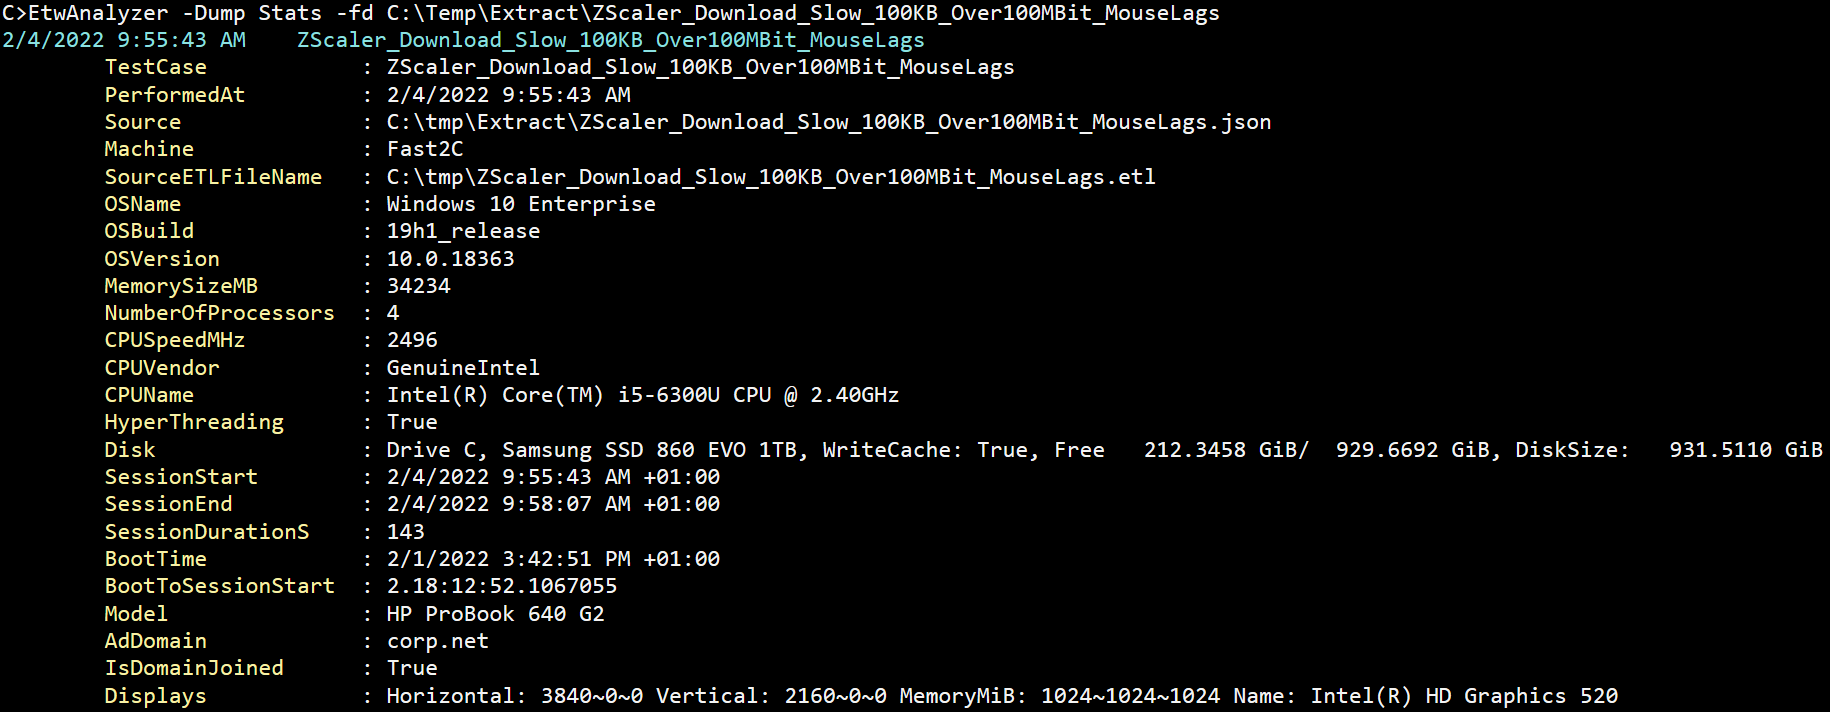
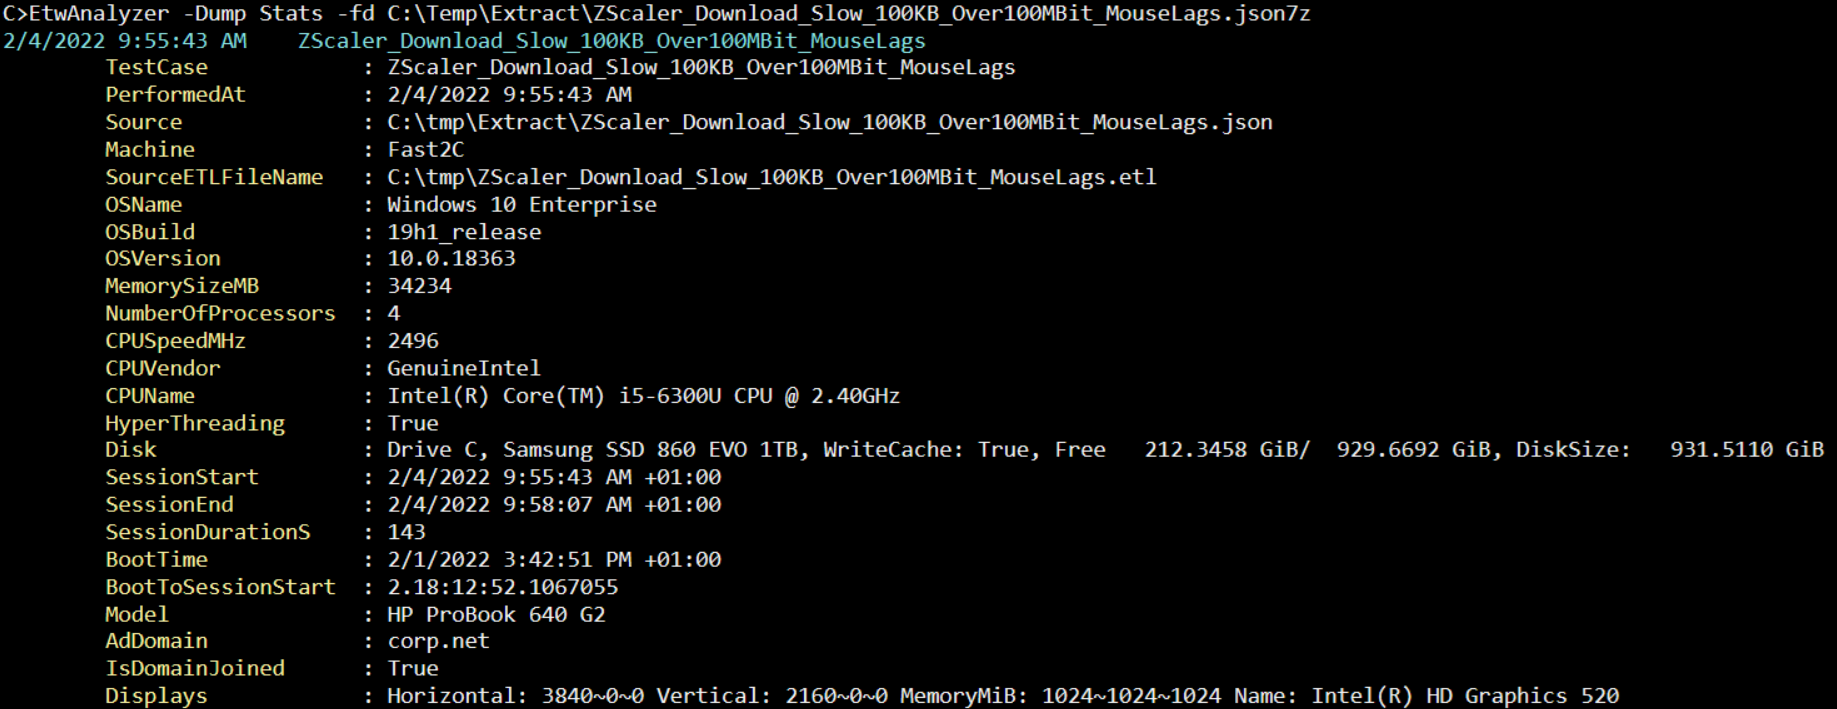
Improve and update documentation with compressed json feature. Sorted extractors alphabetically. Made extract command documentation more prominent in ReadMe. Added more details how symbol server can be used during extraction.

Changed region(s): [[0.0, 0.0, 0.9967, 1.0]]

diff --git a/ETWAnalyzer/Commands/ExtractCommand.cs b/ETWAnalyzer/Commands/ExtractCommand.cs
@@ -35,37 +35,37 @@ namespace ETWAnalyzer.Commands
     class ExtractCommand : ArgParser
     {
         internal static readonly string HelpString =
-         "ETWAnalyzer [-extract [All, Default or Disk File CPU Memory Exception Stacktag ThreadPool PMC Frequency Power Dns TCP] -filedir/-fd inEtlOrZip [-DryRun] [-symServer NtSymbolPath/MS/Google/syngo] [-keepTemp] [-NoOverwrite] [-pThreads dd] [-nThreads dd]" + Environment.NewLine +
+         "ETWAnalyzer [-extract [All, Default or CPU Disk Dns Exception File Frequency Memory Module ObjectRef PMC Power Stacktag TCP ThreadPool] -filedir/-fd inEtlOrZip [-DryRun] [-symServer NtSymbolPath/MS/Google/syngo] [-keepTemp] [-NoOverwrite] [-pThreads dd] [-nThreads dd]" + Environment.NewLine +
          "            [-NoReady] [-allCPU] [-Concurrency dd] [-NoIndent] [-NoCompress] [-LastNDays dd] [-TestsPerRun dd -SkipNTests dd] [-TestRunIndex dd -TestRunCount dd] [-NoTestRunGrouping]  " + Environment.NewLine + 
          "Retrieve data from ETL files and store extracted data in a serialized format in Json in the output directory \\Extract folder." + Environment.NewLine +
          "The data can the be analyzed by other tools or ETWAnalyzer itself which can also analyze the data for specific patterns or issues." + Environment.NewLine +
-         "Extract Options are separated by space" + Environment.NewLine +
+         "Multiple extractor options are separated by space." + Environment.NewLine +
          " -extract Op1 Op2 ..." + Environment.NewLine +
          "  All      : Include all extractors" + Environment.NewLine +
-         "  Default  : Include all extractors except File" + Environment.NewLine +
          "  CPU      : CPU consumption of all proceses part of the recording. CPU Sampling (PROFILE) and/or Context Switch tracing (CSWITCH) data with stacks must be present." + Environment.NewLine +
-         "  Memory   : Get workingset/committed memory machine wide and of all processes at trace start and a second time at trace end. MEMINFO_WS must be present." + Environment.NewLine +
+         "  Default  : Include all extractors except File" + Environment.NewLine +
+         "  Disk     : Disk IO summary and a per file summary of read/write/flush disk service times. DISK_IO data must be present in trace to get this data." + Environment.NewLine +
+         "  DNS       : Extract DNS Queries. You need to enable ETW provider Microsoft-Windows-DNS-Client." + Environment.NewLine +
          "  Exception: Get all .NET Exception Messages, Type and their call stacks when present with Process,ThreadId and TimeStamp" + Environment.NewLine +
          "             To get call stacks you need symbols. See below -symServer section. The Microsoft-Windows-DotNETRuntime ETW provider with ExceptionKeyword 0x8000 and stacks must be present." + Environment.NewLine +
-         "  Disk     : Disk IO summary and a per file summary of read/write/flush disk service times. DISK_IO data must be present in trace to get this data." + Environment.NewLine +
-         "  Module   : Dump all loaded modules with file path and version. LOADER data must be present in trace." + Environment.NewLine +
          "  File     : Open/Close/Read/Write summary of all accessed files per process" + Environment.NewLine +
          "             The ETL file must contain FILEIO data." + Environment.NewLine +
+         "  Frequency : Extract CPU Frequency data when present from enabled Microsoft-Windows-Kernel-Processor-Power and Microsoft-Windows-Kernel-Power (capture state data from both providers is also needed) ETW providers." + Environment.NewLine +
+         "  Memory   : Get workingset/committed memory machine wide and of all processes at trace start and a second time at trace end. MEMINFO_WS must be present." + Environment.NewLine +
+         "  Module   : Dump all loaded modules with file path and version. LOADER data must be present in trace." + Environment.NewLine +
+         "  ObjectRef : Extract all Handle (Create/Duplicate/Close) with kernel provider OB_HANDLE, Object (AddRef/ReleaseRef) with kernel provider OB_OBJECT and File map/unmap events with provider VAMAP." + Environment.NewLine +
+         "  PMC       : Extract Performance Monitoring Counters and Last Branch Record CPU traces. You need to enable PMC/LBR ETW Tracing during the recording to get data." + Environment.NewLine +
+         "  Power     : Extract Power profile data when present from Microsoft-Windows-Kernel-Power provider (capture state is needed to get power profile data)." + Environment.NewLine +
          "  Stacktag : Get from all processes the CPU call stack summary by the WPA stacktag names" + Environment.NewLine +
          "             To work properly you need symbols. See below -symServer section" + Environment.NewLine +
          "              Json Nodes: SummaryStackTags-UsedStackTagFiles,Stats..." + Environment.NewLine +
          "                           This uses default.stacktags and GCAndJit.stacktags. For each process the GC and JIT overhead is printed extra while the default stacktags contain implicitly GC and JIT also." + Environment.NewLine +
          "              Json Nodes: SpecialStackTags-UsedStackTagFiles,Stats..." + Environment.NewLine +
          "                           There you can configure with the ETWAnalyzer\\Configuration\\Special.stacktags to trend e.g. specific methods over one or more testruns to find regression issues or when an issue did start occurring." + Environment.NewLine +
+         "  TCP       : Extract TCP statistic per connection. You need to enable the provider Microsoft-Windows-TCPIP." + Environment.NewLine +
          "  ThreadPool: Extract relevant data from .NET Runtime ThreadPool if available. ThreadingKeyword 0x10000 needs to be set for the Microsoft-Windows-DotNETRuntime ETW Provider during recording." + Environment.NewLine +
          "              Json Nodes: ThreadPool-PerProcessThreadPoolStarvations" + Environment.NewLine +
-         "  PMC       : Extract Performance Monitoring Counters and Last Branch Record CPU traces. You need to enable PMC/LBR ETW Tracing during the recording to get data." + Environment.NewLine +
-         "  Frequency : Extract CPU Frequency data when present from enabled Microsoft-Windows-Kernel-Processor-Power and Microsoft-Windows-Kernel-Power (capture state data from both providers is also needed) ETW providers." + Environment.NewLine +
-         "  Power     : Extract Power profile data when present from Microsoft-Windows-Kernel-Power provider (capture state is needed to get power profile data)." + Environment.NewLine +
-         "  DNS       : Extract DNS Queries. You need to enable ETW provider Microsoft-Windows-DNS-Client." + Environment.NewLine +
-         "  TCP       : Extract TCP statistic per connection. You need to enable the provider Microsoft-Windows-TCPIP." + Environment.NewLine +
-         "  ObjectRef : Extract all Handle (Create/Duplicate/Close) with kernel provider OB_HANDLE, Object (AddRef/ReleaseRef) with kernel provider OB_OBJECT and File map/unmap events with provider VAMAP." + Environment.NewLine +
-         "The following filters work only if the adhere to a specific file naming convention." + Environment.NewLine + 
+         "The following filters work only if the input files adhere to a specific file naming convention." + Environment.NewLine + 
          "Select files from a testrun (all tests which have a time gap < 1h) to e.g. select only the first, or skip the warmump run or to extract just a sample of test cases." + Environment.NewLine +
          "         TestCaseName_ddddmsMachineName.yyyymmdd-hhmmss.7z/.zip/.etl  e.g. Build_166375msfv-az192-659.20230127-093520"  + Environment.NewLine + 
          "         TestCaseName_ddddms_Machine_CLT/SRV/SINGLE_TestStatus-Passed/Failed_yyyymmdd-hhmmss.7z/.etl e.g. LoadPrepUseCase_4897ms_RN6498AA8B-B18F_SRV_TestStatus-Passed_20230112-170100.7z" + Environment.NewLine + 
@@ -75,7 +75,7 @@ namespace ETWAnalyzer.Commands
          "   -TestsPerRun dd            Number of test cases to load of each test run. Useful if you want get an overview how a test behaves over time without loading thousands of files." + Environment.NewLine +
          "   -SkipNTests dd             Skip the first n tests of a testcase in a TestRun. Use this to e.g. skip the first test run which shows normally first time init effects which may be not representative" + Environment.NewLine +
          " -DryRun              Do not extract. Only print which files would be extracted." + Environment.NewLine + 
-         " -NoOverwrite         By default existing Json files are overwritten during a new extraction run. If you want to extract from a large directory only the missing extraction files you can use this option" + Environment.NewLine +
+         " -NoOverwrite         By default existing Json files are overwritten during a new extraction run. If you want to extract from a large directory only the missing extraction files you can use this option." + Environment.NewLine +
          "                      This way you can have the same extract command line in a script after a profiling run to extract only the newly added profiling data." + Environment.NewLine +
          " -Indent              By default a not readable non indented json file is written to save space. For readability you can save the json files with extra spaces and line feeds. This increases the file size ca. by 30%." + Environment.NewLine +
         $" -NoCompress          By default the extracted json files are stored in a 7z archive with the extension {TestRun.CompressedExtractExtension}. Use this flag if you need uncompressed json files." + Environment.NewLine +
@@ -122,7 +122,6 @@ namespace ETWAnalyzer.Commands
          " ETWAnalyzer -extract All -filedir C:\\Profiling\\Baseline_12122022 -symServer MS -outdir c:\\temp\\Profiling\\Baseline_Extracted -noOverwrite" + Environment.NewLine +
          "[green]Show which files would be extracted. Select only files which are not older than one day.[/green]" + Environment.NewLine +
          " ETWAnalyzer -extract All -fd C:\\Profiling\\Baseline_12122022 -DryRun -LastNDays 1" + Environment.NewLine +
-
          "" + Environment.NewLine
          ;
 

diff --git a/ReadMe.md b/ReadMe.md
@@ -7,7 +7,7 @@ ETWAnalyzer main license is [MIT][ETWAnalyzerLicense].
 ETWAnalyzer uses Open Source and 3rd Party Software listed in [ReadMe.oss][ETWAnalyzerOSS].
 
 ## What is it? 
-ETWAnalyzer extracts from ETL files summary information into Json files. The ETL files are produced by the builtin profiling infrastructure of Windows [Event Tracing for Windows (ETW)](https://docs.microsoft.com/en-us/windows/win32/etw/about-event-tracing). 
+ETWAnalyzer extracts from ETL files summary information into compressed (.json7z) files. The ETL files are produced by the builtin profiling infrastructure of Windows [Event Tracing for Windows (ETW)](https://docs.microsoft.com/en-us/windows/win32/etw/about-event-tracing). 
 Profiling data can be collected with e.g. [wpr](https://docs.microsoft.com/en-us/windows-hardware/test/wpt/windows-performance-recorder), wprUI, xperf, PerfView, ... . Wpr is part of Windows 10 which enables you to record data on any Windows machine without additional software installation in the field. 
 These recorded ETL files are usually large (multi GB) and load slow into analysis tools such as 
 [Windows Performance Analyzer (WPA)](https://docs.microsoft.com/en-us/windows-hardware/test/wpt/windows-performance-analyzer#:~:text=Included%20in%20the%20Windows%20Assessment,run%20in%20the%20Assessment%20Platform.) 
@@ -19,9 +19,9 @@ or written to a CSV file for further analysis.
 
 The Json files can also be accessed via a C# interface [**IETWExtract**](ETWAnalyzer/Documentation/ProgramaticAccess.md) which enables you to write custom analyzers.
 
-Json files are much faster to query than the input ETL files without slow symbol server lookups.
+Compressed Json files are much faster to query than the input ETL files without slow symbol server lookups.
 It is based on years of field experience with ETW file analysis to keep the extracted Json file size as small as possible while maximizing the insights you can get of the extracted files.
-An ETW Json file is typically a few MB while the input .etl file including PDBs is hundreds of MB. 
+An ETW .json7z file is typically a few hundred KB while the input .etl file including PDBs is hundreds of MB. 
 
 ## Contributing
 You want to contribute, miss specific data, or want to add your specific dump command? Check out [Contributing](ETWAnalyzer/Documentation/Contributing.md) to get started.
@@ -59,20 +59,22 @@ ETWController supports
   - Taking Screenshots which are put besides profiling data which can be viewed in Browser.
  - Capturing Keyboard/Mouse events.
  - Distributed Profiling (Client/Server scenarios).
-   
+
+## Data Extraction  
 The 7z archives created by ETWController can be directly consumed with ETWAnalyzer. To e.g. unpack all compressed 7z files in a folder generated
 by ETWController and keep the files uncompressed so you can analyze further with WPA:
 ```
 ETWAnalyzer -extract all -fd c:\Cases\Failure\*.7z -keepTemp -symserver MS 
 ```
+
+### Extract Command
+
+  - [Extract Command Documentation](ETWAnalyzer/Documentation/ExtractCommand.md)
+
 ## Use Cases
  - [Profiler Driven Development](https://aloiskraus.wordpress.com/2022/07/25/pdd-profiler-driven-development/)
  - [Run tests with ETW Profiling](https://github.com/Alois-xx/SerializerTests)
  - [Build Profiling At Scale At Github](ETWAnalyzer/Documentation/BuildProfiling.md)
-
-## Data Extraction
-Data extraction is done for one or a directory of ETL files. Zipped ETL files are also extracted. By default 75% of all cores are used.
-See [Extract](ETWAnalyzer/Documentation/ExtractCommand.md) for more information.
 
 ### Example
 
@@ -88,7 +90,7 @@ curl https://raw.githubusercontent.com/Siemens-Healthineers/ETWAnalyzer/main/ETW
 ETWAnalyzer -console
 .load c:\Temp\ETWAnalyzerTest.json
 .dump CPU -topN 1 -methods *
-    ...
+     ...
 .dump CPU -topN 1 -methods * -sortby stackdepth -MinMaxCPUMs 1000
          CPU ms Method
 5/29/2024 4:27:46 PM   ETWAnalyzerTest
@@ -96,39 +98,19 @@ ETWAnalyzer -console
       36,540 ms _RtlUserThreadStart 
       36,540 ms __RtlUserThreadStart 
       36,540 ms _CorExeMain_Exported 
-      36,540 ms ShellShim__CorExeMain 
-      36,540 ms _CorExeMain 
-      36,540 ms _CorExeMain 
-      36,540 ms EEPolicy::HandleExitProcess 
-      36,540 ms HandleExitProcessHelper 
-      36,540 ms SafeExitProcess 
-      36,540 ms EEPolicy::ExitProcessViaShim 
-      36,540 ms CLRRuntimeHostInternalImpl::ShutdownAllRuntimesThenExit 
-      36,540 ms RuntimeDesc::ShutdownAllActiveRuntimes 
-      36,540 ms ExitProcessImplementation 
+      ...
       36,540 ms RtlExitUserProcess 
       36,540 ms LdrShutdownProcess 
       36,540 ms LdrpCallInitRoutine 
       36,540 ms LdrxCallInitRoutine 
-      36,540 ms _CorDllMain_Exported 
-      36,540 ms ShellShim__CorDllMain 
-      36,540 ms _CorDllMain 
-      36,540 ms _DllMainCRTStartup 
+      ...
       36,540 ms dllmain_dispatch 
       36,540 ms dllmain_crt_dispatch 
       36,540 ms ___scrt_acquire_startup_lock  
 .dump CPU -topN 1 -methods * -sortby stackdepth -MinMaxCPUMs 1000 -includedll -threadcount
 5/29/2024 4:27:46 PM   ETWAnalyzerTest
    VSIXAutoUpdate.exe(12996) 
-      36,540 ms #1        ntdll.dll!_RtlUserThreadStart 
-      36,540 ms #1        ntdll.dll!__RtlUserThreadStart 
-      36,540 ms #1        mscoree.dll!_CorExeMain_Exported 
-      36,540 ms #1        mscoree.dll!ShellShim__CorExeMain 
-      36,540 ms #1        mscoreei.dll!_CorExeMain 
-      36,540 ms #1        clr.dll!_CorExeMain 
-      36,540 ms #1        clr.dll!EEPolicy::HandleExitProcess 
-      36,540 ms #1        clr.dll!HandleExitProcessHelper 
-      36,540 ms #1        clr.dll!SafeExitProcess 
+      ...
       36,540 ms #1        clr.dll!EEPolicy::ExitProcessViaShim 
       36,540 ms #1        mscoreei.dll!CLRRuntimeHostInternalImpl::ShutdownAllRuntimesThenExit 
       36,540 ms #1        mscoreei.dll!RuntimeDesc::ShutdownAllActiveRuntimes 
@@ -137,10 +119,7 @@ ETWAnalyzer -console
       36,540 ms #1        ntdll.dll!LdrShutdownProcess 
       36,540 ms #1        ntdll.dll!LdrpCallInitRoutine 
       36,540 ms #1        ntdll.dll!LdrxCallInitRoutine 
-      36,540 ms #1        mscoree.dll!_CorDllMain_Exported 
-      36,540 ms #1        mscoree.dll!ShellShim__CorDllMain 
-      36,540 ms #1        mscoreei.dll!_CorDllMain 
-      36,540 ms #1        CustomMarshalers.dll!_DllMainCRTStartup 
+      ...
       36,540 ms #1        CustomMarshalers.dll!dllmain_dispatch 
       36,540 ms #1        CustomMarshalers.dll!dllmain_crt_dispatch 
       36,540 ms #1        CustomMarshalers.dll!___scrt_acquire_startup_lock 
@@ -148,7 +127,7 @@ ETWAnalyzer -console
          CPU ms Last-First First(s) Last(s)  Method
 5/29/2024 4:27:46 PM   ETWAnalyzerTest
    VSIXAutoUpdate.exe(12996) 
-...
+      ...
       36,540 ms   37.417 s    0.599   38.016 _CorDllMain 
       36,540 ms   37.417 s    0.599   38.016 _DllMainCRTStartup 
       36,540 ms   37.417 s    0.599   38.016 dllmain_dispatch 
@@ -162,14 +141,14 @@ ETWAnalyzer -console
 This shows a Microsoft Bug at work after pretty much every Visual Studio update where shutting down the .NET Runtime gets stuck.
 
 ## Querying the Data
-After extraction from a > 600 MB input file a small ca. 6 MB file in the output folder. 
+After extraction from a > 600 MB input file a small ca. 600 KB .json7z file is created which contains multiple json files which consume ca 4 MB. 
 
 ![alt text](ETWAnalyzer/Documentation/Images/ExtractedDataFiles.png "Extracted Data Files")
 
 ETWAnalyzer will query all files in the current directory if you do not use -filedir/-fd xxx.  
 The first query would be to check on which machine with how much memory, CPU and Windows version it was running. 
 ```
-set f=-fd c:\Temp\C:\Temp\Extract\ZScaler_Download_Slow_100KB_Over100MBit_MouseLags
+set f=-fd C:\Temp\Extract\ZScaler_Download_Slow_100KB_Over100MBit_MouseLags.json7z
 EtwAnalyzer %f% -dump Stats 
 ```
 ![alt text](ETWAnalyzer/Documentation/Images/DumpStatsCommand.png "Dump Stats")

diff --git a/ETWAnalyzer/Documentation/ExtractCommand.md b/ETWAnalyzer/Documentation/ExtractCommand.md
@@ -11,33 +11,67 @@ Besides ```All``` the following extractors are available:
 
 | Extractor   |  Description |
 | -------     | --------     |
-|  All        |  Include all extractors|
-|  Default    |  Include all extractors except File|
-|  CPU        |  CPU consumption of all proceses part of the recording. CPU Sampling (PROFILE) and/or Context Switch tracing (CSWITCH) data with stacks must be present.|
-|  Memory     |  Get workingset/committed memory machine wide and of all processes at trace start and a second time at trace end. MEMINFO_WS must be present.|
-|  Exception  |  Get all .NET Exception Messages, Type and their call stacks when present with Process,ThreadId and TimeStamp|
+|  All        | Include all extractors|
+|  CPU        | CPU consumption of all proceses part of the recording. CPU Sampling (PROFILE) and/or Context Switch tracing (CSWITCH) data with stacks must be present.|
+|  Default    | Include all extractors except File|
+|  Disk       | Disk IO summary and a per file summary of read/write/flush disk service times. DISK_IO data must be present in trace to get this data.|
+|  DNS        | Extract DNS Queries. You need to enable ETW provider Microsoft-Windows-DNS-Client.|
+|  Exception  | Get all .NET Exception Messages, Type and their call stacks when present with Process,ThreadId and TimeStamp|
 |             | To get call stacks you need symbols. See below -symServer section. The Microsoft-Windows-DotNETRuntime ETW provider with ExceptionKeyword 0x8000 and stacks must be present.|
-|  Disk       |  Disk IO summary and a per file summary of read/write/flush disk service times. DISK_IO data must be present in trace to get this data.|
-|  Module     |  Dump all loaded modules with file path and version. LOADER data must be present in trace.|
-|  File       |  Open/Close/Read/Write summary of all accessed files per process|
-|             |  The ETL file must contain FILEIO data.|
+|  File       | Open/Close/Read/Write summary of all accessed files per process|
+|             | The ETL file must contain FILEIO data.|
+|  Frequency  | Extract CPU Frequency data when present from enabled Microsoft-Windows-Kernel-Processor-Power and Microsoft-Windows-Kernel-Power (capture state data from both providers is also needed) ETW providers.|
+|  Memory     | Get workingset/committed memory machine wide and of all processes at trace start and a second time at trace end. MEMINFO_WS must be present.|
+|  Module     | Dump all loaded modules with file path and version. LOADER data must be present in trace.|
+|  ObjectRef  | Extract all Handle (Create/Duplicate/Close) with kernel provider OB_HANDLE, Object (AddRef/ReleaseRef) with kernel provider OB_OBJECT and File map/unmap events with provider VAMAP.
+|  PMC        | Extract Performance Monitoring Counters and Last Branch Record CPU traces. You need to enable PMC/LBR ETW Tracing during the recording to get data.|
+|  Power      | Extract Power profile data when present from Microsoft-Windows-Kernel-Power provider (capture state is needed to get power profile data).|
 |  Stacktag   | Get from all processes the CPU call stack summary by the WPA stacktag names|
 |             | To work properly you need symbols. See below -symServer section|
 |             |  Json Nodes: SummaryStackTags-UsedStackTagFiles,Stats...|
 |             |               This uses default.stacktags and GCAndJit.stacktags. For each process the GC and JIT overhead is printed extra while the default stacktags contain implicitly GC and JIT also.|
 |             |  Json Nodes: SpecialStackTags-UsedStackTagFiles,Stats...|
 |             |               There you can configure with the ETWAnalyzer\Configuration\Special.stacktags to trend e.g. specific methods over one or more testruns to find regression issues or when an issue did start occurring.|
+|  TCP        | Extract TCP statistic per connection. You need to enable the provider Microsoft-Windows-TCPIP.  |
 |  ThreadPool | Extract relevant data from .NET Runtime ThreadPool if available. ThreadingKeyword 0x10000 needs to be set for the Microsoft-Windows-DotNETRuntime ETW Provider during recording.|
 |             | Json Nodes: ThreadPool-PerProcessThreadPoolStarvations|
-|  PMC        | Extract Performance Monitoring Counters and Last Branch Record CPU traces. You need to enable PMC/LBR ETW Tracing during the recording to get data.|
-|  Frequency  | Extract CPU Frequency data when present from enabled Microsoft-Windows-Kernel-Processor-Power and Microsoft-Windows-Kernel-Power (capture state data from both providers is also needed) ETW providers.|
-|  Power      | Extract Power profile data when present from Microsoft-Windows-Kernel-Power provider (capture state is needed to get power profile data).|
-|  DNS        | Extract DNS Queries. You need to enable ETW provider Microsoft-Windows-DNS-Client.|
-|  TCP        | Extract TCP statistic per connection. You need to enable the provider Microsoft-Windows-TCPIP.  |
+
 
 If you extract from 7z archives the files are uncompressed in-place and deleted after extraction. If you want to leave the decompressed files on disk after extraction 
 you can add the ```-keep``` command line option. 
 
+## Using Multiple Extractors
+You can use multiple extractors by listing their names, separated by spaces, in the command line. If you don't specify a symbol server, ETWAnalyzer will use the already downloaded and cached symbols. This can speed up 
+extraction if you're certain that no new symbols will be resolved.
+```
+ETWAnalyzer -extract CPU TCP DNS -fd c:\issue1\xxx.etl
+```
+
+## Using your own Symbol Server
+
+To use custom symbol servers/directories you can specifcy one or more with the -symserver option. The symbol cache folder is by
+default C:\Symbols. If you want to download the symbol to a different local folder use the ```-SymCache``` option.
+
+```
+ETWAnalyzer -extract all -fd c:\issue1\xxx.etl -symserver https://msdl.microsoft.com/download/symbols;https://chromium-browser-symsrv.commondatastorage.googleapis.com -symcache d:\OtherSymbolStore
+```
+There are some shortcuts configured which you can use with ```-SymServer```
+
+| Shortcut | Value   |
+| --------      | ------- |
+| NtSymbolPath  | Value from environent variable _NT_SYMBOL_PATH is used.                    |
+| MS            | ```SRV*C:\Symbols*https://msdl.microsoft.com/download/symbols```                |
+| Google        | ```SRV*C:\Symbols*https://chromium-browser-symsrv.commondatastorage.googleapis.com``` |
+
+
+
+## File Compression
+Starting from version v3.0.0.8, ETWAnalyzer compresses the extracted JSON files into a single .json7z 7z archive. 
+If you prefer to have the output in uncompressed .json files, use the `-NoCompress` option with the `-Extract` command. 
+To make the JSON files more readable, you can add the `-Indent` option, which will format the JSON with proper indentation.
+
+
+# Common Issues
 ## High Memory Consumption
 ETWAnalyzer loads symbols which needs several GB of memory. E.g. the chrome pdb alone is over 2 GB in size. But the highest memory costs arise from parsing context switch events which 
 can easily exceed 30 GB of private bytes for one instance if you have a large (ca. 5 GB) .etl file. To speed things up ETWAnalyzer uses Server GC which is a lot faster but also 
